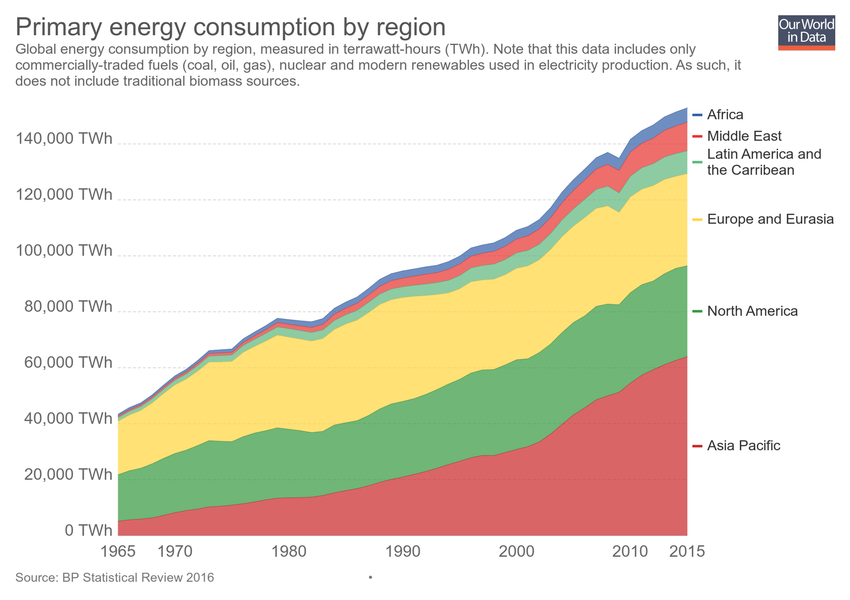
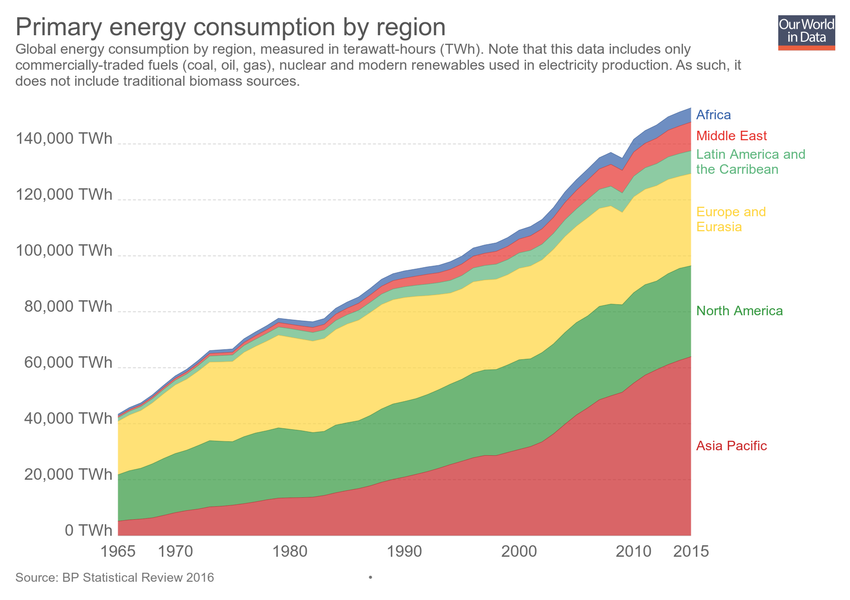
Updating chart primary-energy-consumption-by-region

diff --git a/grapher/primary-energy-consumption-by-source-and-region.html b/grapher/primary-energy-consumption-by-source-and-region.html
@@ -1,4 +1,4 @@
-<!doctype html><html><head><meta name="viewport" content="width=device-width, initial-scale=1" /><title>Primary energy consumption by source - Our World in Data</title><meta name="description" content="Primary energy consumption by source across the world's regions, measured in terrawatt-hours (TWh). Note that this data does not include energy sourced from traditional biomass, which may form a significant component of primary energy consumption in low to middle-income countries. 'Other renewables' includes renewable sources including wind, geothermal, solar, biomass and waste." /><link rel="canonical" href="https://ourworldindata.org/grapher/primary-energy-consumption-by-source-and-region" /><meta property="fb:app_id" content="1149943818390250" /><meta property="og:url" content="https://ourworldindata.org/grapher/primary-energy-consumption-by-source-and-region" /><meta property="og:title" content="Primary energy consumption by source" /><meta property="og:description" content="Primary energy consumption by source across the world's regions, measured in terrawatt-hours (TWh). Note that this data does not include energy sourced from traditional biomass, which may form a significant component of primary energy consumption in low to middle-income countries. 'Other renewables' includes renewable sources including wind, geothermal, solar, biomass and waste." /><meta property="og:image" content="https://ourworldindata.org/grapher/exports/primary-energy-consumption-by-source-and-region.png?v=1" /><meta property="og:image:width" content="850" /><meta property="og:image:height" content="600" /><meta property="og:site_name" content="Our World in Data" /><meta name="twitter:card" content="summary_large_image" /><meta name="twitter:site" content="@OurWorldInData" /><meta name="twitter:creator" content="@OurWorldInData" /><meta name="twitter:title" content="Primary energy consumption by source" /><meta name="twitter:description" content="Primary energy consumption by source across the world's regions, measured in terrawatt-hours (TWh). Note that this data does not include energy sourced from traditional biomass, which may form a significant component of primary energy consumption in low to middle-income countries. 'Other renewables' includes renewable sources including wind, geothermal, solar, biomass and waste." /><meta name="twitter:image" content="https://ourworldindata.org/grapher/exports/primary-energy-consumption-by-source-and-region.png?v=1" /><style>
+<!doctype html><html><head><meta name="viewport" content="width=device-width, initial-scale=1" /><title>Primary energy consumption by source - Our World in Data</title><meta name="description" content="Primary energy consumption by source across the world's regions, measured in terawatt-hours (TWh). Note that this data does not include energy sourced from traditional biomass, which may form a significant component of primary energy consumption in low to middle-income countries. 'Other renewables' includes renewable sources including wind, geothermal, solar, biomass and waste." /><link rel="canonical" href="https://ourworldindata.org/grapher/primary-energy-consumption-by-source-and-region" /><meta property="fb:app_id" content="1149943818390250" /><meta property="og:url" content="https://ourworldindata.org/grapher/primary-energy-consumption-by-source-and-region" /><meta property="og:title" content="Primary energy consumption by source" /><meta property="og:description" content="Primary energy consumption by source across the world's regions, measured in terawatt-hours (TWh). Note that this data does not include energy sourced from traditional biomass, which may form a significant component of primary energy consumption in low to middle-income countries. 'Other renewables' includes renewable sources including wind, geothermal, solar, biomass and waste." /><meta property="og:image" content="https://ourworldindata.org/grapher/exports/primary-energy-consumption-by-source-and-region.png?v=2" /><meta property="og:image:width" content="850" /><meta property="og:image:height" content="600" /><meta property="og:site_name" content="Our World in Data" /><meta name="twitter:card" content="summary_large_image" /><meta name="twitter:site" content="@OurWorldInData" /><meta name="twitter:creator" content="@OurWorldInData" /><meta name="twitter:title" content="Primary energy consumption by source" /><meta name="twitter:description" content="Primary energy consumption by source across the world's regions, measured in terawatt-hours (TWh). Note that this data does not include energy sourced from traditional biomass, which may form a significant component of primary energy consumption in low to middle-income countries. 'Other renewables' includes renewable sources including wind, geothermal, solar, biomass and waste." /><meta name="twitter:image" content="https://ourworldindata.org/grapher/exports/primary-energy-consumption-by-source-and-region.png?v=2" /><style>
         html, body {
             height: 100%;
             margin: 0;
@@ -20,8 +20,8 @@
         }
     </style><noscript><style>
                     figure { display: none !important; }
-                </style></noscript><link rel="stylesheet" href="https://ourworldindata.org/grapher/assets/commons.bundle.dcbbe53805c487d5e57617b10ac73a8a.css" /><link rel="preload" href="/grapher/data/variables/42689+42720+42732+42734+42736+42738.json?v=1" as="fetch" crossorigin /></head><body class="singleChart"><figure data-grapher-src="/grapher/primary-energy-consumption-by-source-and-region"></figure><noscript id="fallback"><img src="/grapher/exports/primary-energy-consumption-by-source-and-region.svg" /><p>Interactive visualization requires JavaScript</p></noscript><script src="https://cdn.polyfill.io/v2/polyfill.min.js?features=es6,fetch"></script><script src="https://ourworldindata.org/grapher/assets/commons.bundle.da523acc49807a06a11f.js"></script><script src="https://ourworldindata.org/grapher/assets/charts.bundle.da523acc49807a06a11f.js"></script><script>
-        var jsonConfig = {"id":648,"map":{"projection":"World","targetYear":1980,"variableId":1911,"timeTolerance":1,"legendStepSize":20,"baseColorScheme":"BuGn","colorSchemeInvert":false,"colorSchemeLabels":[],"colorSchemeValues":[],"defaultProjection":"World","legendDescription":"","customColorsActive":false,"customNumericColors":[],"customCategoryColors":{},"customCategoryLabels":{},"customHiddenCategories":{}},"tab":"chart","note":"","slug":"primary-energy-consumption-by-source-and-region","type":"StackedArea","title":"Primary energy consumption by source","xAxis":{"scaleType":"linear"},"yAxis":{"min":0,"scaleType":"linear","labelDistance":-1},"version":1,"subtitle":"Primary energy consumption by source across the world's regions, measured in terrawatt-hours (TWh). Note that this data does not include energy sourced from traditional biomass, which may form a significant component of primary energy consumption in low to middle-income countries. 'Other renewables' includes renewable sources including wind, geothermal, solar, biomass and waste.","hasMapTab":false,"originUrl":"https://ourworldindata.org/energy-production-and-changing-energy-sources/","stackMode":null,"dimensions":[{"id":9134,"order":0,"chartId":648,"display":{"name":"Oil","unit":"terrawatt-hours","shortUnit":"TWh","conversionFactor":11.63},"property":"y","targetYear":null,"variableId":42689},{"id":9135,"order":1,"chartId":648,"display":{"name":"Gas"},"property":"y","targetYear":null,"variableId":42720},{"id":9136,"order":2,"chartId":648,"display":{"name":"Coal"},"property":"y","targetYear":null,"variableId":42732},{"id":9137,"order":3,"chartId":648,"display":{"name":"Nuclear"},"property":"y","targetYear":null,"variableId":42734},{"id":9138,"order":4,"chartId":648,"display":{"name":"Hydropower"},"property":"y","targetYear":null,"variableId":42736},{"id":9139,"order":5,"chartId":648,"display":{"name":"Other renewables"},"property":"y","targetYear":null,"variableId":42738}],"entityType":"region","hideLegend":false,"sourceDesc":"BP Statistical Review 2016","hasChartTab":true,"isPublished":true,"selectedData":[{"color":"#34983f","index":5,"entityId":355},{"color":"#7ec7ce","index":4,"entityId":355},{"color":"#ffd53e","index":3,"entityId":355},{"color":"#ca2628","index":1,"entityId":355},{"color":"#3360a9","index":0,"entityId":355},{"color":"#818282","index":2,"entityId":355}],"internalNotes":"","addCountryMode":"change-country","hideRelativeToggle":false};
+                </style></noscript><link rel="stylesheet" href="https://ourworldindata.org/grapher/assets/commons.bundle.dcbbe53805c487d5e57617b10ac73a8a.css" /><link rel="preload" href="/grapher/data/variables/42689+42720+42732+42734+42736+42738.json?v=2" as="fetch" crossorigin /></head><body class="singleChart"><figure data-grapher-src="/grapher/primary-energy-consumption-by-source-and-region"></figure><noscript id="fallback"><img src="/grapher/exports/primary-energy-consumption-by-source-and-region.svg" /><p>Interactive visualization requires JavaScript</p></noscript><script src="https://cdn.polyfill.io/v2/polyfill.min.js?features=es6,fetch"></script><script src="https://ourworldindata.org/grapher/assets/commons.bundle.da523acc49807a06a11f.js"></script><script src="https://ourworldindata.org/grapher/assets/charts.bundle.da523acc49807a06a11f.js"></script><script>
+        var jsonConfig = {"id":648,"map":{"projection":"World","targetYear":1980,"variableId":1911,"timeTolerance":1,"baseColorScheme":"BuGn","colorSchemeInvert":false,"colorSchemeLabels":[],"colorSchemeValues":[],"legendDescription":"","customColorsActive":false,"customNumericColors":[],"customCategoryColors":{},"customCategoryLabels":{},"customHiddenCategories":{}},"tab":"chart","note":"","slug":"primary-energy-consumption-by-source-and-region","type":"StackedArea","title":"Primary energy consumption by source","xAxis":{"scaleType":"linear"},"yAxis":{"min":0,"scaleType":"linear","labelDistance":-1},"version":2,"subtitle":"Primary energy consumption by source across the world's regions, measured in terawatt-hours (TWh). Note that this data does not include energy sourced from traditional biomass, which may form a significant component of primary energy consumption in low to middle-income countries. 'Other renewables' includes renewable sources including wind, geothermal, solar, biomass and waste.","hasMapTab":false,"originUrl":"https://ourworldindata.org/energy-production-and-changing-energy-sources/","stackMode":null,"dimensions":[{"display":{"name":"Oil","unit":"terawatt-hours","shortUnit":"TWh","conversionFactor":11.63},"property":"y","variableId":42689},{"display":{"name":"Gas","unit":"terawatt-hours"},"property":"y","variableId":42720},{"display":{"name":"Coal"},"property":"y","variableId":42732},{"display":{"name":"Nuclear","unit":"terawatt-hours"},"property":"y","variableId":42734},{"display":{"name":"Hydropower","unit":"terawatt-hours"},"property":"y","variableId":42736},{"display":{"name":"Other renewables","unit":"terawatt-hours"},"property":"y","variableId":42738}],"entityType":"region","hideLegend":false,"sourceDesc":"BP Statistical Review 2016","hasChartTab":true,"isPublished":true,"selectedData":[{"color":"#34983f","index":5,"entityId":355},{"color":"#7ec7ce","index":4,"entityId":355},{"color":"#ffd53e","index":3,"entityId":355},{"color":"#ca2628","index":1,"entityId":355},{"color":"#3360a9","index":0,"entityId":355},{"color":"#818282","index":2,"entityId":355}],"internalNotes":"","addCountryMode":"change-country","hideRelativeToggle":false};
         var figure = document.getElementsByTagName("figure")[0];
         try {
             window.App = {};

diff --git a/grapher/primary-energy-consumption-by-region.html b/grapher/primary-energy-consumption-by-region.html
@@ -1,4 +1,4 @@
-<!doctype html><html><head><meta name="viewport" content="width=device-width, initial-scale=1" /><title>Primary energy consumption by region - Our World in Data</title><meta name="description" content="Global energy consumption by region, measured in terrawatt-hours (TWh). Note that this data includes only commercially-traded fuels (coal, oil, gas), nuclear and modern renewables used in electricity production. As such, it does not include traditional biomass sources." /><link rel="canonical" href="https://ourworldindata.org/grapher/primary-energy-consumption-by-region" /><meta property="fb:app_id" content="1149943818390250" /><meta property="og:url" content="https://ourworldindata.org/grapher/primary-energy-consumption-by-region" /><meta property="og:title" content="Primary energy consumption by region" /><meta property="og:description" content="Global energy consumption by region, measured in terrawatt-hours (TWh). Note that this data includes only commercially-traded fuels (coal, oil, gas), nuclear and modern renewables used in electricity production. As such, it does not include traditional biomass sources." /><meta property="og:image" content="https://ourworldindata.org/grapher/exports/primary-energy-consumption-by-region.png?v=1" /><meta property="og:image:width" content="850" /><meta property="og:image:height" content="600" /><meta property="og:site_name" content="Our World in Data" /><meta name="twitter:card" content="summary_large_image" /><meta name="twitter:site" content="@OurWorldInData" /><meta name="twitter:creator" content="@OurWorldInData" /><meta name="twitter:title" content="Primary energy consumption by region" /><meta name="twitter:description" content="Global energy consumption by region, measured in terrawatt-hours (TWh). Note that this data includes only commercially-traded fuels (coal, oil, gas), nuclear and modern renewables used in electricity production. As such, it does not include traditional biomass sources." /><meta name="twitter:image" content="https://ourworldindata.org/grapher/exports/primary-energy-consumption-by-region.png?v=1" /><style>
+<!doctype html><html><head><meta name="viewport" content="width=device-width, initial-scale=1" /><title>Primary energy consumption by region - Our World in Data</title><meta name="description" content="Global energy consumption by region, measured in terawatt-hours (TWh). Note that this data includes only commercially-traded fuels (coal, oil, gas), nuclear and modern renewables used in electricity production. As such, it does not include traditional biomass sources." /><link rel="canonical" href="https://ourworldindata.org/grapher/primary-energy-consumption-by-region" /><meta property="fb:app_id" content="1149943818390250" /><meta property="og:url" content="https://ourworldindata.org/grapher/primary-energy-consumption-by-region" /><meta property="og:title" content="Primary energy consumption by region" /><meta property="og:description" content="Global energy consumption by region, measured in terawatt-hours (TWh). Note that this data includes only commercially-traded fuels (coal, oil, gas), nuclear and modern renewables used in electricity production. As such, it does not include traditional biomass sources." /><meta property="og:image" content="https://ourworldindata.org/grapher/exports/primary-energy-consumption-by-region.png?v=2" /><meta property="og:image:width" content="850" /><meta property="og:image:height" content="600" /><meta property="og:site_name" content="Our World in Data" /><meta name="twitter:card" content="summary_large_image" /><meta name="twitter:site" content="@OurWorldInData" /><meta name="twitter:creator" content="@OurWorldInData" /><meta name="twitter:title" content="Primary energy consumption by region" /><meta name="twitter:description" content="Global energy consumption by region, measured in terawatt-hours (TWh). Note that this data includes only commercially-traded fuels (coal, oil, gas), nuclear and modern renewables used in electricity production. As such, it does not include traditional biomass sources." /><meta name="twitter:image" content="https://ourworldindata.org/grapher/exports/primary-energy-consumption-by-region.png?v=2" /><style>
         html, body {
             height: 100%;
             margin: 0;
@@ -20,8 +20,8 @@
         }
     </style><noscript><style>
                     figure { display: none !important; }
-                </style></noscript><link rel="stylesheet" href="https://ourworldindata.org/grapher/assets/commons.bundle.dcbbe53805c487d5e57617b10ac73a8a.css" /><link rel="preload" href="/grapher/data/variables/1904.json?v=1" as="fetch" crossorigin /></head><body class="singleChart"><figure data-grapher-src="/grapher/primary-energy-consumption-by-region"></figure><noscript id="fallback"><img src="/grapher/exports/primary-energy-consumption-by-region.svg" /><p>Interactive visualization requires JavaScript</p></noscript><script src="https://cdn.polyfill.io/v2/polyfill.min.js?features=es6,fetch"></script><script src="https://ourworldindata.org/grapher/assets/commons.bundle.da523acc49807a06a11f.js"></script><script src="https://ourworldindata.org/grapher/assets/charts.bundle.da523acc49807a06a11f.js"></script><script>
-        var jsonConfig = {"id":647,"map":{"projection":"World","targetYear":1980,"variableId":1904,"timeTolerance":1,"legendStepSize":20,"baseColorScheme":"BuGn","colorSchemeInvert":false,"colorSchemeLabels":[],"colorSchemeValues":[],"defaultProjection":"World","legendDescription":"","customColorsActive":false,"customNumericColors":[],"customCategoryColors":{},"customCategoryLabels":{},"customHiddenCategories":{}},"tab":"chart","note":"","slug":"primary-energy-consumption-by-region","type":"StackedArea","title":"Primary energy consumption by region","xAxis":{"scaleType":"linear"},"yAxis":{"min":0,"scaleType":"linear","labelDistance":-1},"version":1,"subtitle":"Global energy consumption by region, measured in terrawatt-hours (TWh). Note that this data includes only commercially-traded fuels (coal, oil, gas), nuclear and modern renewables used in electricity production. As such, it does not include traditional biomass sources.","hasMapTab":false,"originUrl":"https://ourworldindata.org/energy-production-and-changing-energy-sources/","stackMode":"absolute","dimensions":[{"id":8661,"order":0,"chartId":647,"display":{"unit":"TWh","shortUnit":"TWh","tolerance":5,"isProjection":false,"conversionFactor":11.63},"property":"y","targetYear":null,"variableId":1904}],"entityType":"country","hideLegend":false,"sourceDesc":"BP Statistical Review 2016","hasChartTab":true,"isPublished":true,"selectedData":[{"color":"#3360a9","index":0,"entityId":273},{"color":"#e6332e","index":0,"entityId":25487},{"color":"#5eb77e","index":0,"entityId":632},{"color":"#ffd53e","index":0,"entityId":34607},{"color":"#34983f","index":0,"entityId":294},{"color":"#ca2628","index":0,"entityId":34608}],"internalNotes":"","addCountryMode":"add-country","hideRelativeToggle":false};
+                </style></noscript><link rel="stylesheet" href="https://ourworldindata.org/grapher/assets/commons.bundle.dcbbe53805c487d5e57617b10ac73a8a.css" /><link rel="preload" href="/grapher/data/variables/1904.json?v=2" as="fetch" crossorigin /></head><body class="singleChart"><figure data-grapher-src="/grapher/primary-energy-consumption-by-region"></figure><noscript id="fallback"><img src="/grapher/exports/primary-energy-consumption-by-region.svg" /><p>Interactive visualization requires JavaScript</p></noscript><script src="https://cdn.polyfill.io/v2/polyfill.min.js?features=es6,fetch"></script><script src="https://ourworldindata.org/grapher/assets/commons.bundle.da523acc49807a06a11f.js"></script><script src="https://ourworldindata.org/grapher/assets/charts.bundle.da523acc49807a06a11f.js"></script><script>
+        var jsonConfig = {"id":647,"map":{"projection":"World","targetYear":1980,"variableId":1904,"timeTolerance":1,"baseColorScheme":"BuGn","colorSchemeInvert":false,"colorSchemeLabels":[],"colorSchemeValues":[],"legendDescription":"","customColorsActive":false,"customNumericColors":[],"customCategoryColors":{},"customCategoryLabels":{},"customHiddenCategories":{}},"tab":"chart","note":"","slug":"primary-energy-consumption-by-region","type":"StackedArea","title":"Primary energy consumption by region","xAxis":{"scaleType":"linear"},"yAxis":{"min":0,"scaleType":"linear","labelDistance":-1},"version":2,"subtitle":"Global energy consumption by region, measured in terawatt-hours (TWh). Note that this data includes only commercially-traded fuels (coal, oil, gas), nuclear and modern renewables used in electricity production. As such, it does not include traditional biomass sources.","hasMapTab":false,"originUrl":"https://ourworldindata.org/energy-production-and-changing-energy-sources/","stackMode":"absolute","dimensions":[{"display":{"unit":"TWh","shortUnit":"TWh","tolerance":5,"isProjection":false,"conversionFactor":11.63},"property":"y","variableId":1904}],"entityType":"country","hideLegend":false,"sourceDesc":"BP Statistical Review 2016","hasChartTab":true,"isPublished":true,"selectedData":[{"color":"#3360a9","index":0,"entityId":273},{"color":"#e6332e","index":0,"entityId":25487},{"color":"#5eb77e","index":0,"entityId":632},{"color":"#ffd53e","index":0,"entityId":34607},{"color":"#34983f","index":0,"entityId":294},{"color":"#ca2628","index":0,"entityId":34608}],"internalNotes":"","addCountryMode":"add-country","hideRelativeToggle":false};
         var figure = document.getElementsByTagName("figure")[0];
         try {
             window.App = {};

diff --git a/grapher/neonatal-mortality-sdgs.html b/grapher/neonatal-mortality-sdgs.html
@@ -1,4 +1,4 @@
-<!doctype html><html><head><meta name="viewport" content="width=device-width, initial-scale=1" /><title>Neonatal mortality rate (per 1,000 live births) - Our World in Data</title><meta name="description" content="Neonatal mortality rate is the number of neonates dying before reaching 28 days of age, per 1,000 live births in a given year. SDG Target 3.1 is to reduce neonatal mortality rates to at least as low as 12 per 1,000 live births by 2030." /><link rel="canonical" href="https://ourworldindata.org/grapher/neonatal-mortality-sdgs" /><meta property="fb:app_id" content="1149943818390250" /><meta property="og:url" content="https://ourworldindata.org/grapher/neonatal-mortality-sdgs" /><meta property="og:title" content="Neonatal mortality rate (per 1,000 live births)" /><meta property="og:description" content="Neonatal mortality rate is the number of neonates dying before reaching 28 days of age, per 1,000 live births in a given year. SDG Target 3.1 is to reduce neonatal mortality rates to at least as low as 12 per 1,000 live births by 2030." /><meta property="og:image" content="https://ourworldindata.org/grapher/exports/neonatal-mortality-sdgs.png?v=1" /><meta property="og:image:width" content="850" /><meta property="og:image:height" content="600" /><meta property="og:site_name" content="Our World in Data" /><meta name="twitter:card" content="summary_large_image" /><meta name="twitter:site" content="@OurWorldInData" /><meta name="twitter:creator" content="@OurWorldInData" /><meta name="twitter:title" content="Neonatal mortality rate (per 1,000 live births)" /><meta name="twitter:description" content="Neonatal mortality rate is the number of neonates dying before reaching 28 days of age, per 1,000 live births in a given year. SDG Target 3.1 is to reduce neonatal mortality rates to at least as low as 12 per 1,000 live births by 2030." /><meta name="twitter:image" content="https://ourworldindata.org/grapher/exports/neonatal-mortality-sdgs.png?v=1" /><style>
+<!doctype html><html><head><meta name="viewport" content="width=device-width, initial-scale=1" /><title>Neonatal mortality, historic and projections - Our World in Data</title><meta name="description" content="Neonatal mortality rate is the number of neonates dying before reaching 28 days of age, per 1,000 live births in a given year. Future projections to 2030 are also shown. SDG Target 3.2 is to reduce neonatal mortality to at least as low as 12 deaths per 1,000 live births." /><link rel="canonical" href="https://ourworldindata.org/grapher/neonatal-mortality-sdgs" /><meta property="fb:app_id" content="1149943818390250" /><meta property="og:url" content="https://ourworldindata.org/grapher/neonatal-mortality-sdgs" /><meta property="og:title" content="Neonatal mortality, historic and projections" /><meta property="og:description" content="Neonatal mortality rate is the number of neonates dying before reaching 28 days of age, per 1,000 live births in a given year. Future projections to 2030 are also shown. SDG Target 3.2 is to reduce neonatal mortality to at least as low as 12 deaths per 1,000 live births." /><meta property="og:image" content="https://ourworldindata.org/grapher/exports/neonatal-mortality-sdgs.png?v=1" /><meta property="og:image:width" content="850" /><meta property="og:image:height" content="600" /><meta property="og:site_name" content="Our World in Data" /><meta name="twitter:card" content="summary_large_image" /><meta name="twitter:site" content="@OurWorldInData" /><meta name="twitter:creator" content="@OurWorldInData" /><meta name="twitter:title" content="Neonatal mortality, historic and projections" /><meta name="twitter:description" content="Neonatal mortality rate is the number of neonates dying before reaching 28 days of age, per 1,000 live births in a given year. Future projections to 2030 are also shown. SDG Target 3.2 is to reduce neonatal mortality to at least as low as 12 deaths per 1,000 live births." /><meta name="twitter:image" content="https://ourworldindata.org/grapher/exports/neonatal-mortality-sdgs.png?v=1" /><style>
         html, body {
             height: 100%;
             margin: 0;
@@ -20,8 +20,8 @@
         }
     </style><noscript><style>
                     figure { display: none !important; }
-                </style></noscript><link rel="stylesheet" href="https://ourworldindata.org/grapher/assets/commons.bundle.dcbbe53805c487d5e57617b10ac73a8a.css" /><link rel="preload" href="/grapher/data/variables/3397.json?v=1" as="fetch" crossorigin /></head><body class="singleChart"><figure data-grapher-src="/grapher/neonatal-mortality-sdgs"></figure><noscript id="fallback"><img src="/grapher/exports/neonatal-mortality-sdgs.svg" /><p>Interactive visualization requires JavaScript</p></noscript><script src="https://cdn.polyfill.io/v2/polyfill.min.js?features=es6,fetch"></script><script src="https://ourworldindata.org/grapher/assets/commons.bundle.da523acc49807a06a11f.js"></script><script src="https://ourworldindata.org/grapher/assets/charts.bundle.da523acc49807a06a11f.js"></script><script>
-        var jsonConfig = {"map":{"projection":"World","targetYear":2015,"variableId":3397,"equalSizeBins":true,"baseColorScheme":"YlOrRd","isManualBuckets":true,"colorSchemeLabels":["Target reached","1.5x target","2x target","3x target","4x target","5x target"],"colorSchemeValues":[12.1,18,24,36,48,60],"customColorsActive":true,"customNumericColors":["#9ecc8a",null,null,null,null],"customCategoryColors":{},"customCategoryLabels":{},"customHiddenCategories":{}},"tab":"map","slug":"neonatal-mortality-sdgs","type":"LineChart","title":"Neonatal mortality rate (per 1,000 live births)","xAxis":{"scaleType":"linear"},"yAxis":{"min":0,"scaleType":"linear"},"version":1,"subtitle":"Neonatal mortality rate is the number of neonates dying before reaching 28 days of age, per 1,000 live births in a given year. SDG Target 3.1 is to reduce neonatal mortality rates to at least as low as 12 per 1,000 live births by 2030.","hasMapTab":true,"stackMode":"absolute","dimensions":[{"display":{},"property":"y","variableId":3397}],"hasChartTab":true,"isPublished":true,"selectedData":[{"index":0,"entityId":355},{"index":0,"entityId":137},{"index":0,"entityId":136},{"index":0,"entityId":32}],"internalNotes":"For SDG Tracker","addCountryMode":"add-country","comparisonLine":{"label":"SDG Target 3.1 (12 per 1,000)","yEquals":"12"},"id":2655};
+                </style></noscript><link rel="stylesheet" href="https://ourworldindata.org/grapher/assets/commons.bundle.dcbbe53805c487d5e57617b10ac73a8a.css" /><link rel="preload" href="/grapher/data/variables/96526+96527.json?v=1" as="fetch" crossorigin /></head><body class="singleChart"><figure data-grapher-src="/grapher/neonatal-mortality-sdgs"></figure><noscript id="fallback"><img src="/grapher/exports/neonatal-mortality-sdgs.svg" /><p>Interactive visualization requires JavaScript</p></noscript><script src="https://cdn.polyfill.io/v2/polyfill.min.js?features=es6,fetch"></script><script src="https://ourworldindata.org/grapher/assets/commons.bundle.da523acc49807a06a11f.js"></script><script src="https://ourworldindata.org/grapher/assets/charts.bundle.da523acc49807a06a11f.js"></script><script>
+        var jsonConfig = {"map":{"projection":"World","targetYear":2030,"variableId":96527,"equalSizeBins":true,"isManualBuckets":true,"colorSchemeLabels":["Target met","Target not met"],"colorSchemeValues":[13,100],"customColorsActive":true,"colorSchemeMinValue":0,"customNumericColors":["#2a939b","#ca2628"],"customCategoryColors":{},"customCategoryLabels":{},"customHiddenCategories":{}},"tab":"chart","slug":"neonatal-mortality-sdgs","type":"LineChart","title":"Neonatal mortality, historic and projections","xAxis":{"scaleType":"linear"},"yAxis":{"min":0,"scaleType":"linear"},"version":1,"subtitle":"Neonatal mortality rate is the number of neonates dying before reaching 28 days of age, per 1,000 live births in a given year. Future projections to 2030 are also shown. SDG Target 3.2 is to reduce neonatal mortality to at least as low as 12 deaths per 1,000 live births.","hasMapTab":true,"stackMode":"absolute","dimensions":[{"display":{"name":"Historic trends to date","numDecimalPlaces":0},"property":"y","variableId":96526},{"display":{"name":"Current projections to 2030","numDecimalPlaces":0},"property":"y","variableId":96527}],"sourceDesc":"Institute of Health Metrics & Evaluation (IHME)","hasChartTab":true,"isPublished":true,"selectedData":[{"index":0,"entityId":137},{"index":1,"entityId":137}],"addCountryMode":"change-country","id":2517};
         var figure = document.getElementsByTagName("figure")[0];
         try {
             window.App = {};
@@ -29,10 +29,6 @@
             ChartView.bootstrap({ jsonConfig: jsonConfig, containerNode: figure })
         } catch (err) {
             figure.innerHTML = "<img src=\"/grapher/exports/neonatal-mortality-sdgs.svg\"/><p>Unable to load interactive visualization</p>";
-            figure.setAttribute("id", "fallback");
-            throw err;
-        }
-    </script></body></html> visualization</p>";
             figure.setAttribute("id", "fallback");
             throw err;
         }
